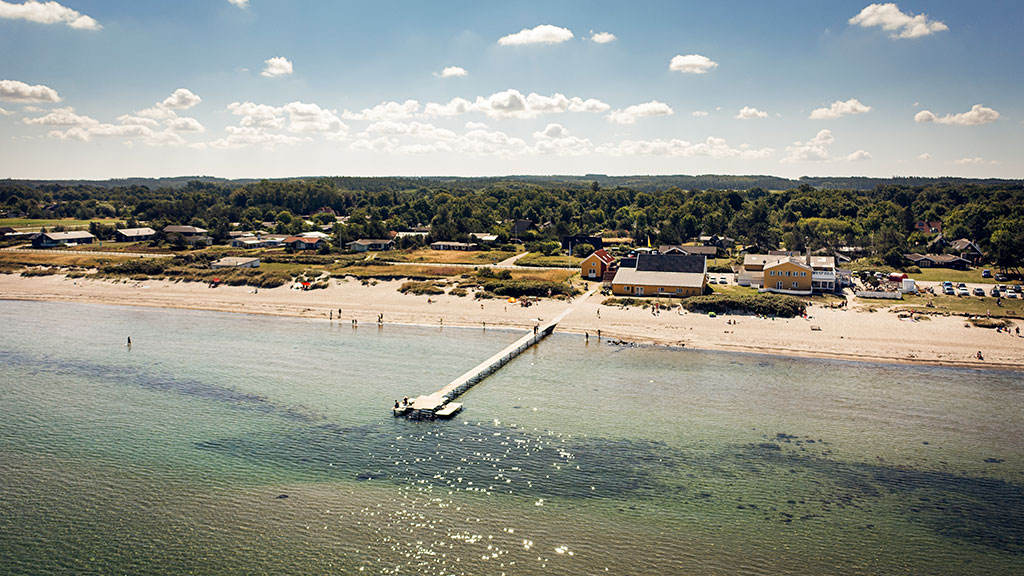
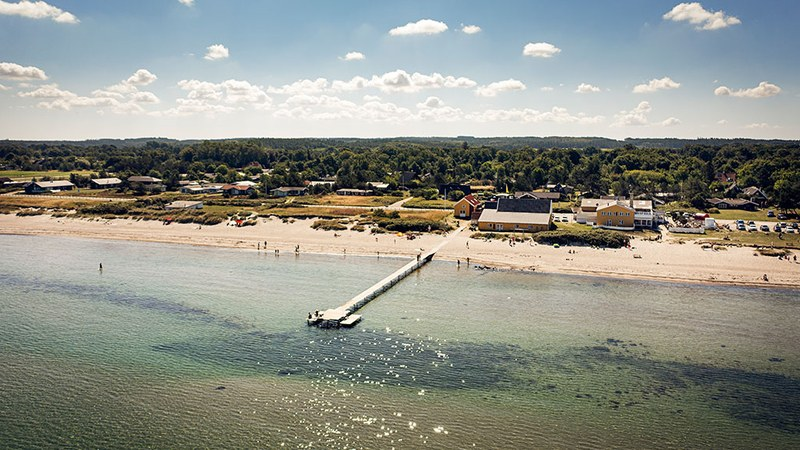
Add files via upload

diff --git a/index.html b/index.html
@@ -270,8 +270,8 @@
 
         <!-- SAG 1: VOSNÆS -->
         <div class="sag-kort-3">
-          <img class="sag-kort-img" src="assets/vindmoeller.jpg"
-               alt="Gyldne marker med halmballer og vindmøller – Vosnæs, Djursland">
+          <img class="sag-kort-img" src="assets/vosnæs-vindmoeller.jpg"
+               alt="Luftfoto af vindmøller langs kysten ved Djursland – Vosnæs-sagen">
           <div class="sag-kort-3-body">
             <div class="sag-status-badge">Igangværende</div>
             <h3>Vosnæs – vindmøller ved kysten</h3>
@@ -339,7 +339,8 @@
 
         <!-- SAG 2: DRÅBY -->
         <div class="sag-kort-3">
-          <div class="sag-kort-img" style="display:flex;align-items:center;justify-content:center;font-size:3rem;color:rgba(255,255,255,.2);">🏠</div>
+          <img class="sag-kort-img" src="assets/draaby-sommerhus.jpg"
+               alt="Luftfoto af stort moderne sommerhus i klitter ved kysten – Dråby, Djursland">
           <div class="sag-kort-3-body">
             <div class="sag-status-badge">Under behandling</div>
             <h3>Dråby – sommerhusområde og store sommerhuse</h3>
@@ -407,8 +408,8 @@
 
         <!-- SAG 3: GROBUND -->
         <div class="sag-kort-3">
-          <img class="sag-kort-img" src="assets/sager-hero.jpg"
-               alt="Naturlandskab ved Ålerne – Grobund, Ebeltoft">
+          <img class="sag-kort-img" src="assets/grobund-kyst.jpg"
+               alt="Luftfoto af kyststrækning med skov og strand – Ålerne ved Ebeltoft, Grobund-sagen">
           <div class="sag-kort-3-body">
             <div class="sag-status-badge">Igangværende</div>
             <h3>Grobund – bebyggelse ved Ålerne, Ebeltoft</h3>
@@ -664,9 +665,9 @@
           <div class="bst-role">Bestyrelsesmedlem</div>
         </article>
 
-        <article class="bst-kort" style="opacity:.5;">
-          <div class="bst-avatar" style="background:rgba(120,110,100,.12);color:var(--c-muted);font-size:1.4rem;">—</div>
-          <h3 style="color:var(--c-muted);">Vakant</h3>
+        <article class="bst-kort">
+          <div class="bst-avatar">👤</div>
+          <h3>Ivan Bundgaard Sørensen</h3>
           <div class="bst-role">Bestyrelsesmedlem</div>
         </article>
 
